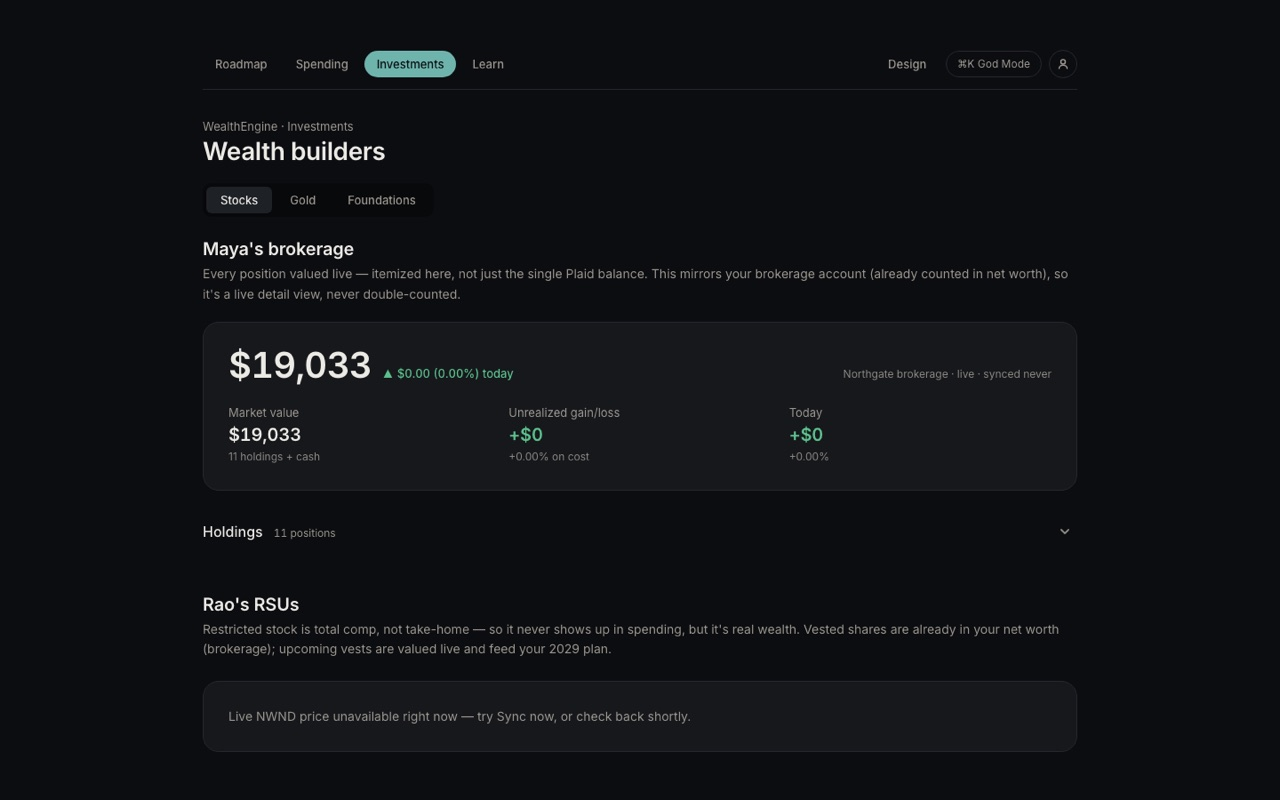
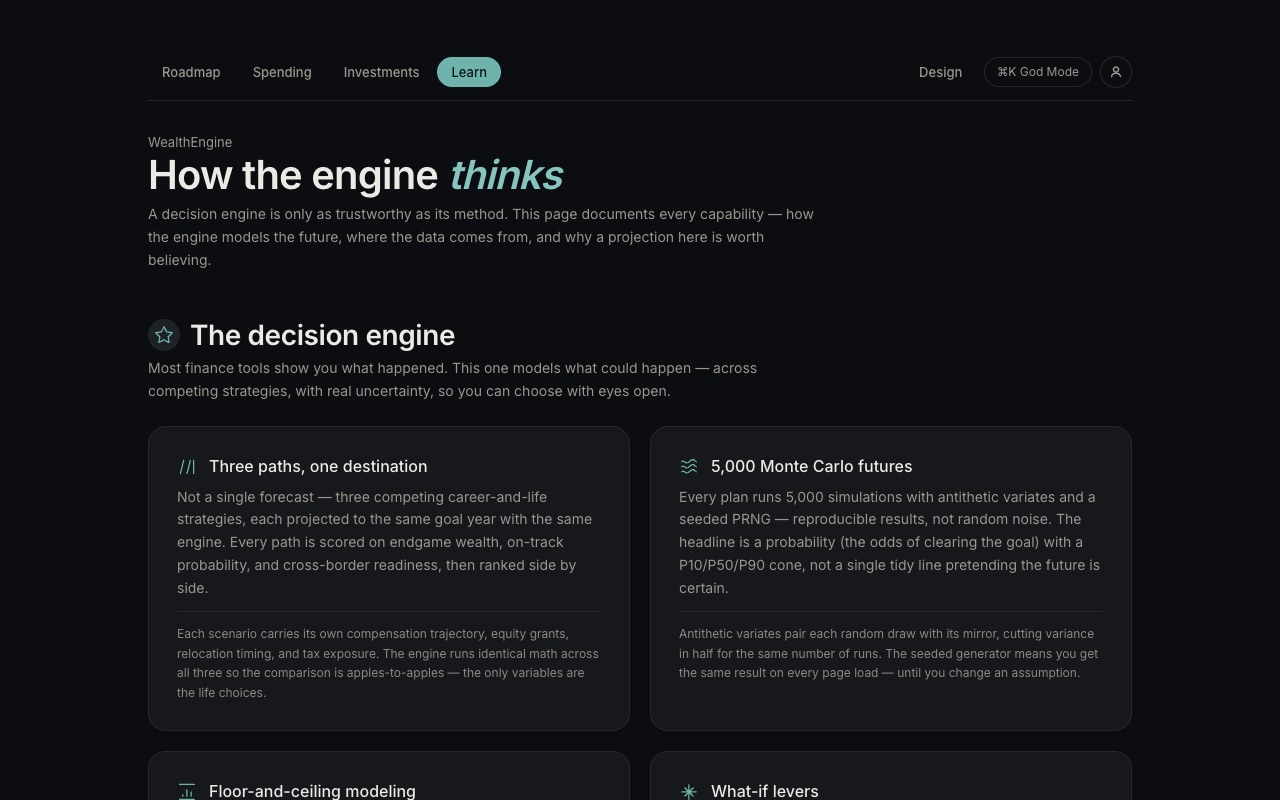
walkthrough: a real screen on every beat (5 per app)
Captured distinct screens for the remaining beats so each app's tour shows
real product the whole way through, not branded placeholders:
- Pathwise: dashboard / profile / explore / programs (+ feature-a video)
- WealthEngine: roadmap / spending / "how the engine thinks" (+ God Mode + video)
- Inkwell: landing / home dashboard / Writing Craft / Settings (+ video)
All via Playwright route/click navigation, optimized to ~1280px JPEGs.

Warden is the lone exception — its console tabs don't switch the main view
(verified), so it shows the board (problem/workflow/feature-a) + keeps two
branded beats; its live embed below the walkthrough carries real interaction.

Verified: Pathwise renders a real visual on all 5/5 beats; 18 images + 3
videos wired; tsc/build clean.

diff --git a/src/data/app-case-studies.ts b/src/data/app-case-studies.ts
@@ -115,11 +115,11 @@ export const APP_CASE_STUDIES: Record<AppCaseStudyId, AppCaseStudy> = {
         status: 'demo',
         statusLabel: 'Live demo on Vercel',
         walkthrough: [
-            { id: 'problem', label: 'The problem', caption: 'College applications happen blind. Families pick programs by reputation and gut, then find out four years and a hundred-thousand dollars later whether it paid off. I wanted to make that decision quantitative — and honest about what AI can and cannot project.' },
-            { id: 'workflow', label: 'How I built it', caption: 'I built Pathwise the way I build everything now: agentic. I describe the decision model to Claude Code in plain language, it scaffolds the Next.js and Supabase layers, and I steer — tighten the schema here, make the planner deterministic there. Designer in the driver\'s seat, AI doing the typing.' },
+            { id: 'problem', image: '/images/walkthroughs/pathwise-problem.jpg', label: 'The problem', caption: 'College applications happen blind. Families pick programs by reputation and gut, then find out four years and a hundred-thousand dollars later whether it paid off. I wanted to make that decision quantitative — and honest about what AI can and cannot project.' },
+            { id: 'workflow', image: '/images/walkthroughs/pathwise-workflow.jpg', label: 'How I built it', caption: 'I built Pathwise the way I build everything now: agentic. I describe the decision model to Claude Code in plain language, it scaffolds the Next.js and Supabase layers, and I steer — tighten the schema here, make the planner deterministic there. Designer in the driver\'s seat, AI doing the typing.' },
             { id: 'feature-a', image: '/images/walkthroughs/pathwise-feature-a.jpg', video: '/videos/walkthroughs/pathwise-feature-a.mp4', label: 'Built for the professional', caption: 'The demo features the working-professional persona — someone weighing a degree, a career switch, or a certification, scored by its real career ROI. Each profile keeps its own tracker and projection state, local to the profile. The engine\'s built to host more than one.' },
             { id: 'feature-b', image: '/images/walkthroughs/pathwise-feature-b.jpg', label: 'AI = projections only', caption: 'Here\'s the honest part. AI only does projections, and every number cites its source and is labeled a projection, not a fact. The AI runtime is off by default — a deterministic local planner handles the base case. Build, lint, and test never touch the API.' },
-            { id: 'outcome', label: 'The outcome', caption: 'Pathwise turns a hundred-thousand-dollar gut call into a number you can actually defend. It\'s live, it\'s local-first, and it proves the thing I care about most — that AI in a product can be powerful and honest at the same time.' },
+            { id: 'outcome', image: '/images/walkthroughs/pathwise-outcome.jpg', label: 'The outcome', caption: 'Pathwise turns a hundred-thousand-dollar gut call into a number you can actually defend. It\'s live, it\'s local-first, and it proves the thing I care about most — that AI in a product can be powerful and honest at the same time.' },
         ],
     },
 
@@ -157,8 +157,8 @@ export const APP_CASE_STUDIES: Record<AppCaseStudyId, AppCaseStudy> = {
         status: 'demo',
         statusLabel: 'Live demo on Vercel (Rao persona)',
         walkthrough: [
-            { id: 'problem', label: 'The problem', caption: 'Every budgeting app looks backward — last month\'s coffee spend. None of them help you decide whether moving cities, taking a remote role, or holding off on a house is the right call for the next fifteen years. I wanted a tool that scores the actual life paths I\'m weighing.' },
-            { id: 'workflow', label: 'How I built it', caption: 'I vibe-coded the whole thing with agentic AI — but the hard part was the math, not the UI. I\'d reason through the savings model out loud with Claude, have it generate the projection engine and the tests, then pressure-test the numbers myself. AI moves fast; I make sure it\'s right.' },
+            { id: 'problem', image: '/images/walkthroughs/wealthengine-problem.jpg', label: 'The problem', caption: 'Every budgeting app looks backward — last month\'s coffee spend. None of them help you decide whether moving cities, taking a remote role, or holding off on a house is the right call for the next fifteen years. I wanted a tool that scores the actual life paths I\'m weighing.' },
+            { id: 'workflow', image: '/images/walkthroughs/wealthengine-workflow.jpg', label: 'How I built it', caption: 'I vibe-coded the whole thing with agentic AI — but the hard part was the math, not the UI. I\'d reason through the savings model out loud with Claude, have it generate the projection engine and the tests, then pressure-test the numbers myself. AI moves fast; I make sure it\'s right.' },
             { id: 'feature-a', image: '/images/walkthroughs/wealthengine-feature-a.jpg', video: '/videos/walkthroughs/wealthengine-feature-a.mp4', label: 'Three life paths, ranked', caption: 'It ranks three life paths by savings power, runway, and goal-fit — and back-solves the annual savings each one actually needs. There\'s a dual-runway gauge too: your runway today versus an all-income-lost stress test. Decisions, not dashboards.' },
             { id: 'feature-b', image: '/images/walkthroughs/wealthengine-feature-b.jpg', label: 'Ask bar + God Mode', caption: 'Two power moves. A Claude-backed Ask bar answers what-ifs grounded in your real numbers. And a Bloomberg-style God Mode — hit Command-K — drops you into the raw positions, scenario matrix, and year-by-year grid. For when you want the math, not the chart.' },
             { id: 'outcome', image: '/images/walkthroughs/wealthengine-outcome.jpg', label: 'The outcome', caption: 'WealthEngine is my financial chief of staff — local-first, my numbers never leave my machine. It\'s the clearest proof that a designer can own a genuinely quantitative product end to end, modeling and all.' },
@@ -243,8 +243,8 @@ export const APP_CASE_STUDIES: Record<AppCaseStudyId, AppCaseStudy> = {
         status: 'demo',
         statusLabel: 'Live · Datadog Triple-A interview demo',
         walkthrough: [
-            { id: 'problem', label: 'The problem', caption: 'Classic role-based access governs humans, and that\'s solved. The unsolved problem is governing autonomous AI agents — things that reason and act with no human in the loop, and that must never inherit the permissions of whoever deployed them. I built Warden to prove I\'d ship that on day one.' },
-            { id: 'workflow', label: 'How I built it', caption: 'I designed Warden as a pure permission engine first — one typed function, evaluate of agent, action, context — and built it test-first with Claude. Every gate unit-tested edge by edge before a single screen existed. Agentic AI let me move at the speed of thinking; the core stays deterministic.' },
+            { id: 'problem', image: '/images/walkthroughs/warden-problem.jpg', label: 'The problem', caption: 'Classic role-based access governs humans, and that\'s solved. The unsolved problem is governing autonomous AI agents — things that reason and act with no human in the loop, and that must never inherit the permissions of whoever deployed them. I built Warden to prove I\'d ship that on day one.' },
+            { id: 'workflow', image: '/images/walkthroughs/warden-workflow.jpg', label: 'How I built it', caption: 'I designed Warden as a pure permission engine first — one typed function, evaluate of agent, action, context — and built it test-first with Claude. Every gate unit-tested edge by edge before a single screen existed. Agentic AI let me move at the speed of thinking; the core stays deterministic.' },
             { id: 'feature-a', image: '/images/walkthroughs/warden-feature-a.jpg', label: 'Default deny, least privilege', caption: 'Scope is a grid, and every cell starts denied. Access exists only where you explicitly grant it. Even a superadmin\'s autonomous agent can\'t act outside its grant — and the visual default makes that obvious the moment you look at it.' },
             { id: 'feature-b', label: 'The marquee scenario', caption: 'Here\'s the moment it clicks: an autonomous cost-sentinel agent tries to modify payments in production. The first gates pass — then a guardrail trips, and the autonomy gate is never even reached. The whole ladder is right there in the audit trail. The trace is the receipt.' },
             { id: 'outcome', label: 'The outcome', caption: 'I built Warden for a Datadog interview panel, but it stands on its own — and it\'s embedded live, right here in this portfolio. It\'s how I show I don\'t just design for AI systems; I can architect the thing that governs them.' },
@@ -285,11 +285,11 @@ export const APP_CASE_STUDIES: Record<AppCaseStudyId, AppCaseStudy> = {
         status: 'demo',
         statusLabel: 'Live demo on Vercel',
         walkthrough: [
-            { id: 'problem', label: 'The problem', caption: 'I write in bursts — long quiet stretches, then five essays in a single sitting. Every publishing tool assumes a steady cadence and adds this in-the-moment pressure that kills the burst. I wanted the opposite: somewhere to write ahead, then publish on a whim.' },
-            { id: 'workflow', label: 'How I built it', caption: 'Inkwell is the most "just me and Claude Code" build of the set. I gave it the architecture I wanted — clean seams, one write path, the AI provider as a swappable adapter — and let the agent fill it in while I kept the structure honest. Code clarity over feature count, because I\'ll extend this myself.' },
+            { id: 'problem', image: '/images/walkthroughs/inkwell-problem.jpg', label: 'The problem', caption: 'I write in bursts — long quiet stretches, then five essays in a single sitting. Every publishing tool assumes a steady cadence and adds this in-the-moment pressure that kills the burst. I wanted the opposite: somewhere to write ahead, then publish on a whim.' },
+            { id: 'workflow', image: '/images/walkthroughs/inkwell-workflow.jpg', label: 'How I built it', caption: 'Inkwell is the most "just me and Claude Code" build of the set. I gave it the architecture I wanted — clean seams, one write path, the AI provider as a swappable adapter — and let the agent fill it in while I kept the structure honest. Code clarity over feature count, because I\'ll extend this myself.' },
             { id: 'feature-a', image: '/images/walkthroughs/inkwell-feature-a.jpg', video: '/videos/walkthroughs/inkwell-feature-a.mp4', label: 'Decoupled write / publish', caption: 'It splits writing from publishing completely. You draft into a local archive during a burst, and every piece moves through idea, drafting, ready, published. So the dashboard answers the only question that matters in the moment — what can I actually ship right now?' },
-            { id: 'feature-b', label: 'Local-first + copy-out', caption: 'Everything lives in your browser — IndexedDB, debounced autosave, one write path, edits survive a reload. And the workhorse: copy a finished piece out, formatted with its images, ready to paste into Substack or LinkedIn in one action. No backend, no accounts, no lock-in.' },
-            { id: 'outcome', label: 'The outcome', caption: 'Inkwell\'s live, and it\'s the seed of something bigger — it\'s architected to grow into a writing coach in my own voice. It\'s the clearest example of how I build now: design the seams, let AI do the volume, keep my hand on the wheel.' },
+            { id: 'feature-b', image: '/images/walkthroughs/inkwell-feature-b.jpg', label: 'Local-first + copy-out', caption: 'Everything lives in your browser — IndexedDB, debounced autosave, one write path, edits survive a reload. And the workhorse: copy a finished piece out, formatted with its images, ready to paste into Substack or LinkedIn in one action. No backend, no accounts, no lock-in.' },
+            { id: 'outcome', image: '/images/walkthroughs/inkwell-outcome.jpg', label: 'The outcome', caption: 'Inkwell\'s live, and it\'s the seed of something bigger — it\'s architected to grow into a writing coach in my own voice. It\'s the clearest example of how I build now: design the seams, let AI do the volume, keep my hand on the wheel.' },
         ],
     },
 